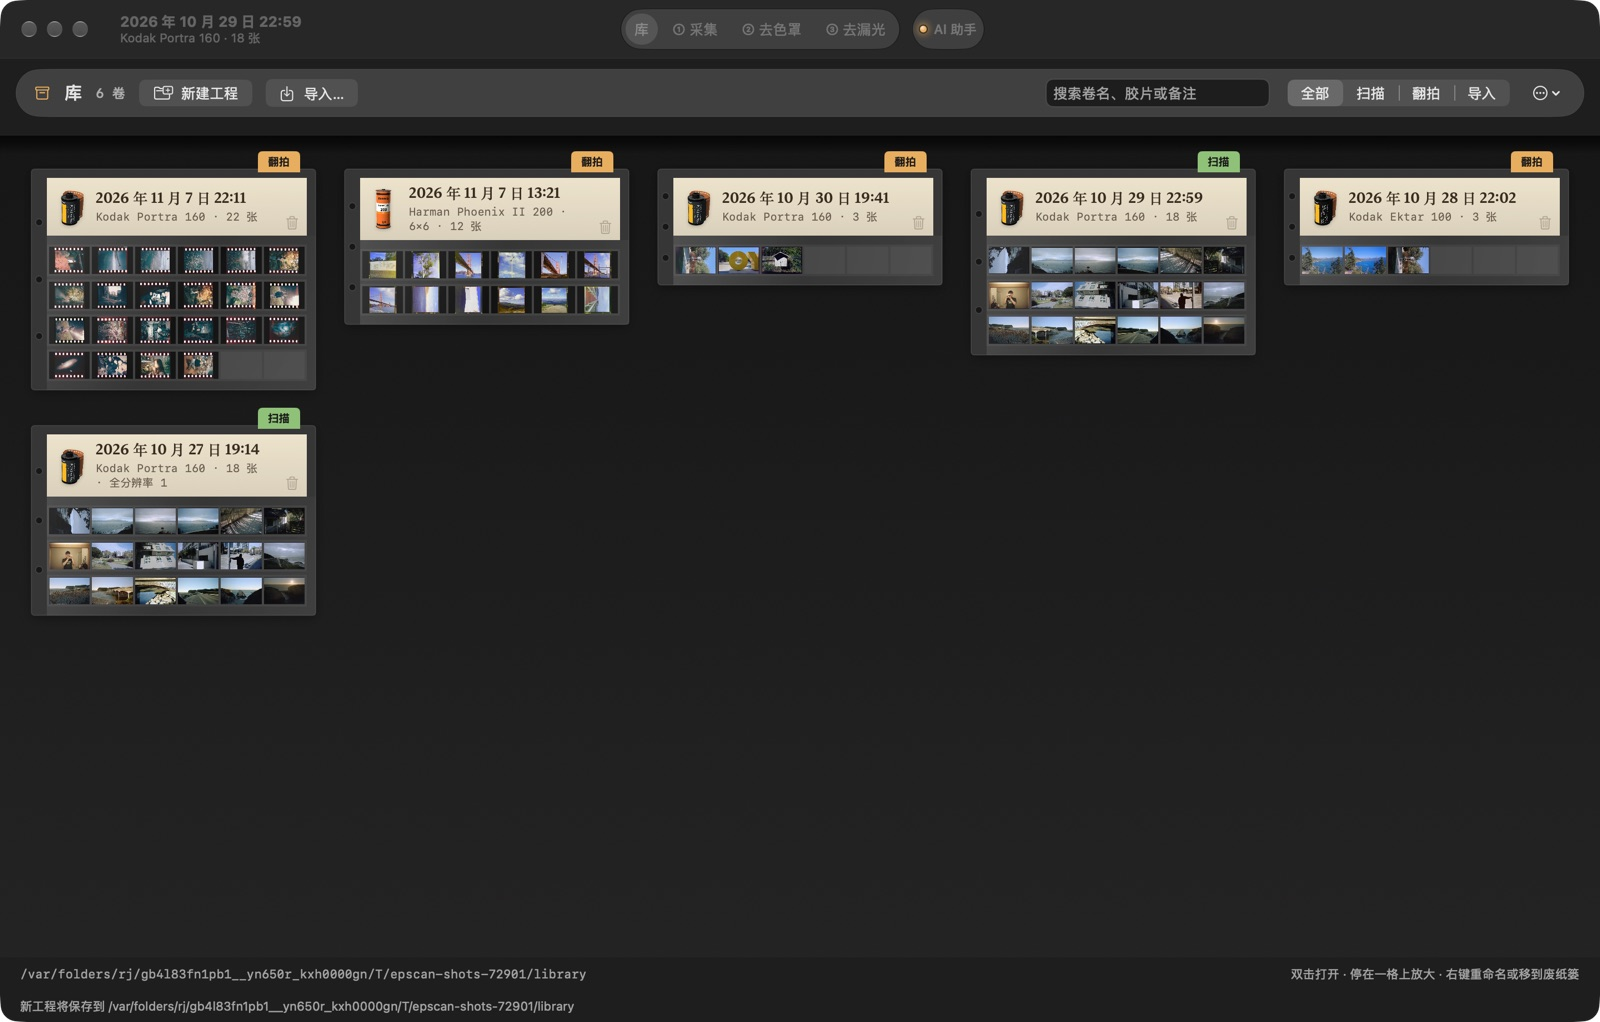
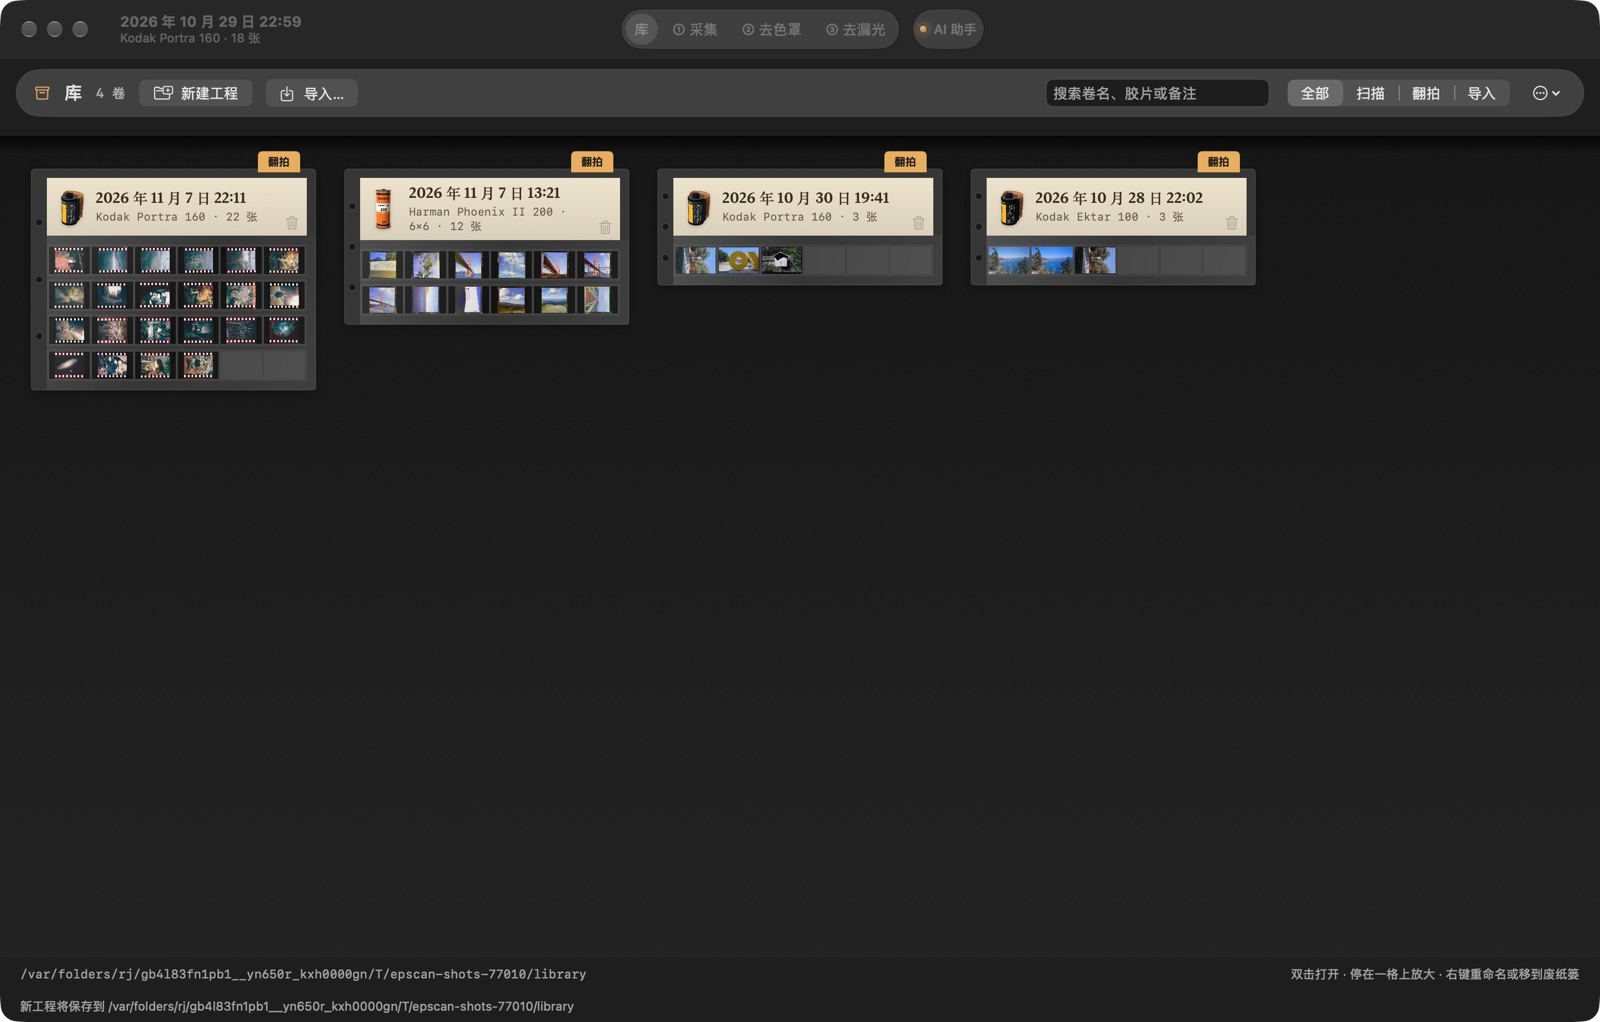
The library shot leaves out the sea roll, whose frames show the user
Tools/Screenshots.swift shows the four copy rolls only. The library
picture is retaken; the others are unchanged.

diff --git a/Tools/Screenshots.swift b/Tools/Screenshots.swift
@@ -32,10 +32,10 @@ struct ShotFailure: Error { let message: String }
   /// already shown.
   static let roll = "2026-10-29_225926_1C87"
   /// The library's sleeves, newest first: copy rolls of Phoenix 6×6 and Portra 160 (one of them
-  /// cross-processed), one of Ektar, and scans of the sea roll, so the films on their labels differ.
+  /// cross-processed) and one of Ektar, so the films on their labels differ. Not the sea roll's
+  /// scans: some of its frames show the user, who keeps them out of the README.
   static let shelf = [
     "2026-11-07_132152_9EA1", "2026-11-07_221113_E606", "2026-10-30_194132_3146", "2026-10-28_220205_CF4A",
-    "2026-10-29_225926_1C87", "2026-10-27_191421_6597",
   ]
   /// A copy roll from the A7R IV: Harman Phoenix II 200 in 6×6, with dust found on its first frame.
   static let copyRoll = "2026-11-07_132152_9EA1"
